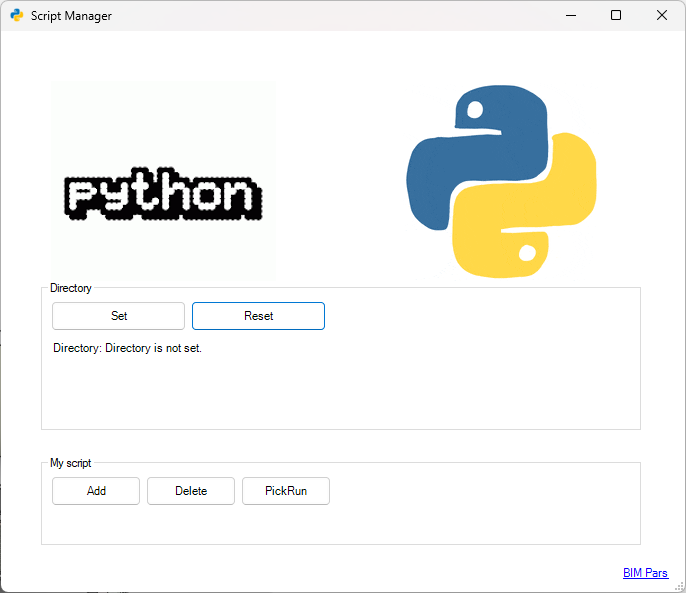
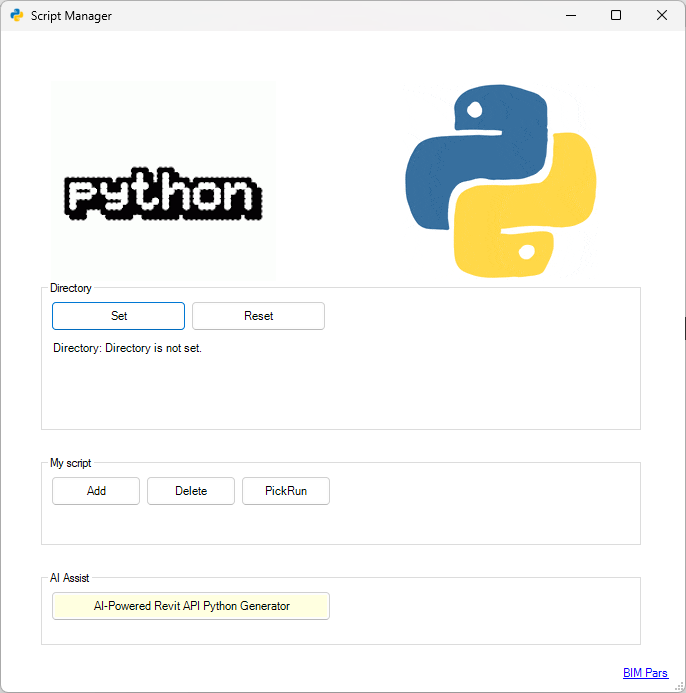
script manager updated

diff --git a/documentation.html b/documentation.html
@@ -6,7 +6,7 @@
     <meta charset="utf-8">
     <meta name="viewport" content="width=device-width, initial-scale=1.0">
 
-    <title>Documentation </title>
+    <title>Documentation</title>
     <meta name="description" content="A simple HTML/CSS DocumentationTemplate">
     <meta name="author" content="Carlos Yllobre">
 
@@ -1138,13 +1138,28 @@
                 <br>
                 <br>
                 <h2><i class="fas fa-code" style="color: #306998; margin-right: 15px;"></i>Script Manager</h2>
-                <p>Enables users to set a <strong>directory</strong> for scripts and execute them directly from within BIM Pars. Users can also <strong>add</strong> or <strong>remove</strong> scripts from the list.</p>
+                <p>Enables users to set a <strong>directory</strong> for scripts and execute them directly from within
+                    BIM Pars. Users can also <strong>add</strong> or <strong>remove</strong> scripts from the list.</p>
                 <p><strong>Steps:</strong></p>
                 <ol>
-                    <li>Click the <strong style="display: inline-flex; align-items: center;">Script Manager button<img class="icon" src="assets/python.png" alt="Script Manager" style="width: 24px; height: 24px; margin-left: 1px;"></strong> in the <strong>Top Toolstrip</strong>.</li>
-                    <li>Set or reset the directory in the top groupbox.</li>
-                    <li>Bottom groupbox allows you to create and manage a list of scripts by using the <button type="button" style="background-color: #d608ff; color: rgb(225, 225, 225); border: none; padding: 2px 3px; border-radius: 5px;">Add</button> and <button type="button" style="background-color: #d608ff; color: rgb(225, 225, 225); border: none; padding: 2px 3px; border-radius: 5px;">Delete</button> buttons. Execute your desired script from the list using the <button type="button" style="background-color: #d608ff; color: rgb(225, 225, 225); border: none; padding: 2px 3px; border-radius: 5px;">PickRun</button> button.</li>
-                    <br><img class="face" src="assets/face/script_manager.png" alt="script_manager" style="width: 606px; height: 513px;"><br><br>
+                    <li>Click the <strong style="display: inline-flex; align-items: center;">Script Manager button<img
+                                class="icon" src="assets/python.png" alt="Script Manager"
+                                style="width: 24px; height: 24px; margin-left: 1px;"></strong> in the <strong>Top
+                            Toolstrip</strong>.</li>
+                    <li>Set or reset the directory in the <strong>Directory</strong> groupbox.</li>
+                    <li><strong>My Script</strong> groupbox allows you to create and manage a list of scripts by using
+                        the <button type="button"
+                            style="background-color: #d608ff; color: rgb(225, 225, 225); border: none; padding: 2px 3px; border-radius: 5px;">Add</button>
+                        and <button type="button"
+                            style="background-color: #d608ff; color: rgb(225, 225, 225); border: none; padding: 2px 3px; border-radius: 5px;">Delete</button>
+                        buttons. Execute your desired script from the list using the <button type="button"
+                            style="background-color: #d608ff; color: rgb(225, 225, 225); border: none; padding: 2px 3px; border-radius: 5px;">PickRun</button>
+                        button.</li>
+                    <li><strong>AI Assist</strong> groupbox redirects you to sources that can help you with scripting.
+                    </li>
+                    <br><img class="face" src="assets/face/script_manager.png" alt="script_manager"
+                        style="width: 606px; height: 613px;"><br><br>
+
                 </ol>
 
                 <br id="run_directory">
